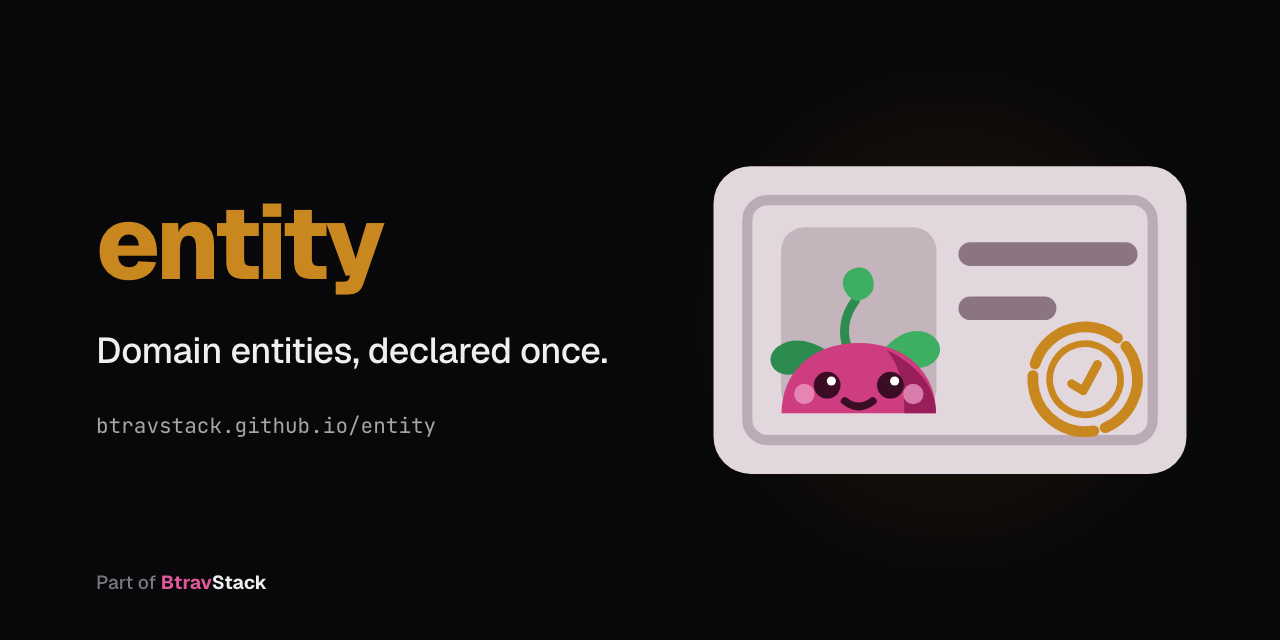
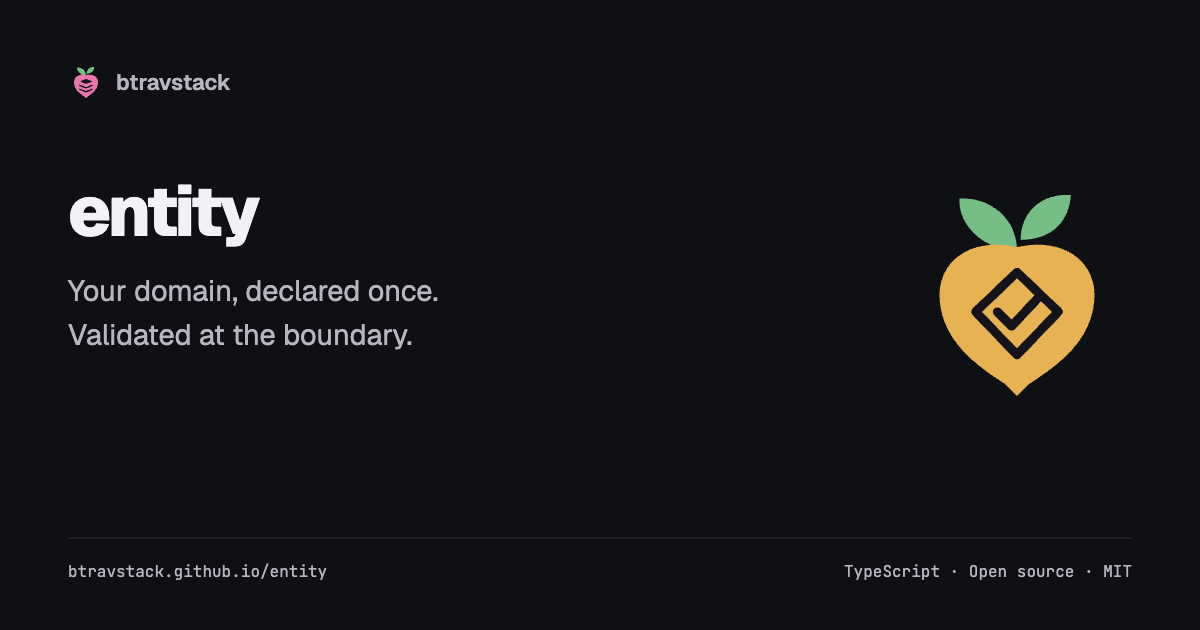
docs: refresh entity project branding

diff --git a/docs/.vitepress/config.ts b/docs/.vitepress/config.ts
@@ -139,7 +139,7 @@ export default defineConfig({
   },
 
   themeConfig: {
-    logo: { light: "/logo-light.svg", dark: "/logo-dark.svg" },
+    logo: { light: "/logo-light.svg", dark: "/logo-dark.svg", alt: "entity logo" },
 
     nav: [
       // The guide is organised by the four Diátaxis modes; the dropdown links
@@ -220,7 +220,7 @@ export default defineConfig({
   },
 
   head: [
-    ["link", { rel: "icon", type: "image/svg+xml", href: `${BASE}logo.svg` }],
+    ["link", { rel: "icon", type: "image/svg+xml", href: `${BASE}favicon.svg` }],
     ["meta", { name: "author", content: "Benoit TRAVERS" }],
     ["meta", { name: "robots", content: "index, follow" }],
     ["meta", { name: "application-name", content: "entity" }],
@@ -236,16 +236,10 @@ export default defineConfig({
     ["meta", { property: "og:type", content: "website" }],
     ["meta", { property: "og:site_name", content: "entity" }],
     ["meta", { property: "og:locale", content: "en_US" }],
-    // The 1280x640 social card, on the same template as the other btravstack
-    // packages. SVG is not a valid og:image: X, Slack, LinkedIn and Discord all
-    // refuse to render one, which is why pointing this at the logo produced no
-    // preview at all rather than a small one.
     ["meta", { property: "og:image", content: `${SITE_URL}og-entity.png` }],
     ["meta", { property: "og:image:type", content: "image/png" }],
-    // The card's true size. The sibling sites declare 1200x630 (the size the OG
-    // docs recommend) while shipping a 1280x640 file; these are measured.
-    ["meta", { property: "og:image:width", content: "1280" }],
-    ["meta", { property: "og:image:height", content: "640" }],
+    ["meta", { property: "og:image:width", content: "1200" }],
+    ["meta", { property: "og:image:height", content: "630" }],
     [
       "meta",
       {

diff --git a/docs/branding/README.md b/docs/branding/README.md
@@ -1,0 +1,20 @@
+# entity branding
+
+The mark belongs to the shared btravstack family. Its editable source is
+[`scripts/generate-brand.mjs`](https://github.com/btravstack/btravstack.github.io/blob/main/scripts/generate-brand.mjs)
+in the website repository. Regenerate there, then copy the project assets from
+`apps/website/public/logos/` into this repository's `docs/public/`:
+
+- `entity-light.svg` → `logo-light.svg` and `logo.svg` (the default).
+- `entity-dark.svg` → `logo-dark.svg`.
+- `entity-mono.svg` → `logo-mono.svg`.
+- `entity-favicon.svg` → `favicon.svg`.
+
+The README and documentation navigation and hero use the light/dark pair.
+The favicon has a solid background for legibility at small sizes.
+The social preview is `og-entity.png`, a 1200 × 630 PNG using the same mark.
+Its editable source is the website's
+[`branding/social-card.html`](https://github.com/btravstack/btravstack.github.io/blob/main/branding/social-card.html),
+rendered with `?project=entity`.
+Keep its dimensions in the VitePress metadata in sync when replacing it.
+Assets are committed locally; rendering never fetches branding from another site.

diff --git a/README.md b/README.md
@@ -2,7 +2,7 @@
 
 <picture>
   <source media="(prefers-color-scheme: dark)" srcset="docs/public/logo-dark.svg">
-  <img src="docs/public/logo-light.svg" alt="entity" width="170" height="114" />
+  <img src="docs/public/logo-light.svg" alt="entity logo" width="128" height="128" />
 </picture>
 
 # entity

diff --git a/docs/index.md b/docs/index.md
@@ -10,7 +10,7 @@ hero:
   image:
     light: /logo-light.svg
     dark: /logo-dark.svg
-    alt: entity
+    alt: entity logo
   actions:
     - theme: brand
       text: Get Started
